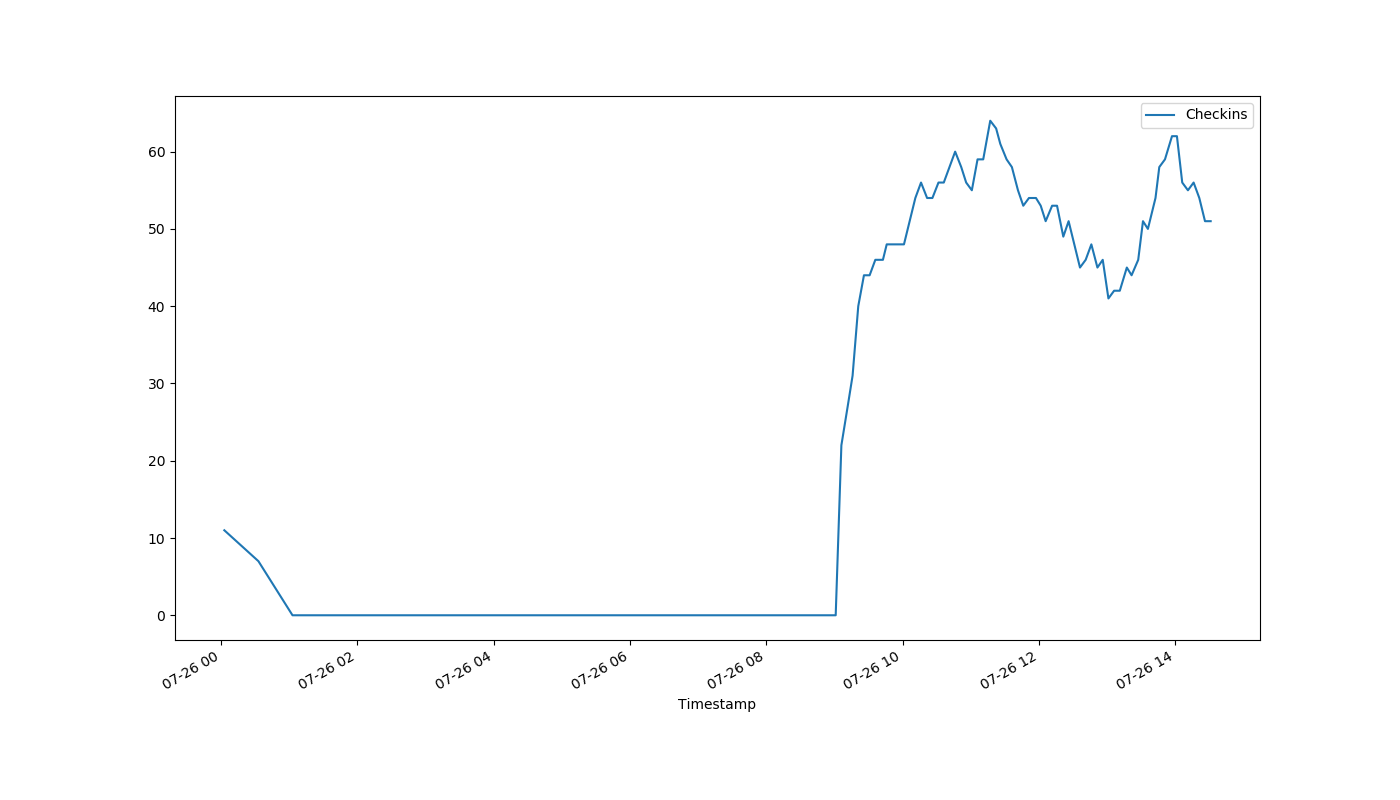
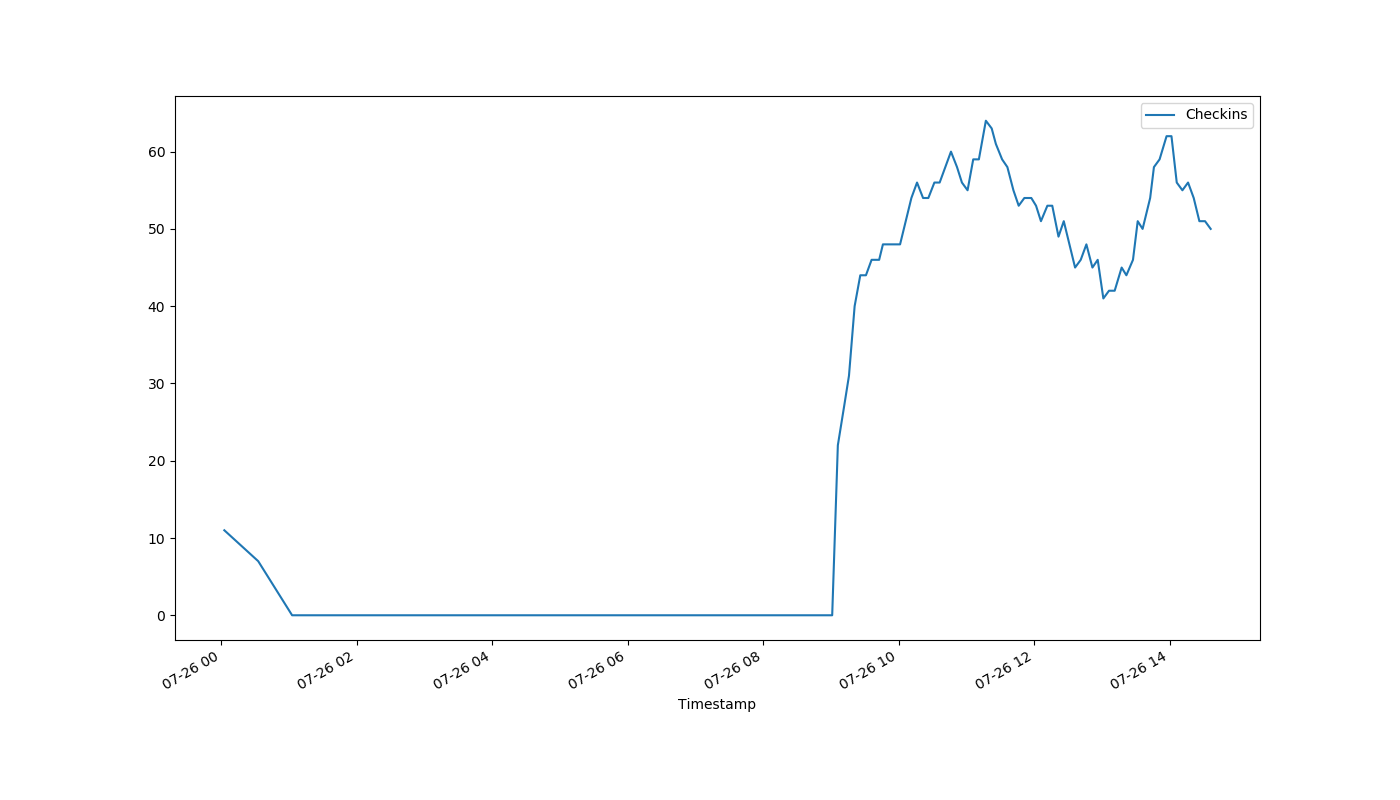
auto-Jul-26-14:37:38

diff --git a/index.html b/index.html
@@ -1,1 +1,1 @@
-<!DOCTYPE html><html><head><meta http-equiv="refresh" content="30"><link rel='stylesheet' href='holmcurrent.css'></head><body><p id='count'>51</p><div id='graph-wrap'><img id='graph' src='holmgraph-Jul-26.png'></div><p id='updated'>Last updated 14:32:06 / 14:31:17</p></body></html>
+<!DOCTYPE html><html><head><meta http-equiv="refresh" content="30"><link rel='stylesheet' href='holmcurrent.css'></head><body><p id='count'>50</p><div id='graph-wrap'><img id='graph' src='holmgraph-Jul-26.png'></div><p id='updated'>Last updated 14:37:06 / 14:36:18</p></body></html>
